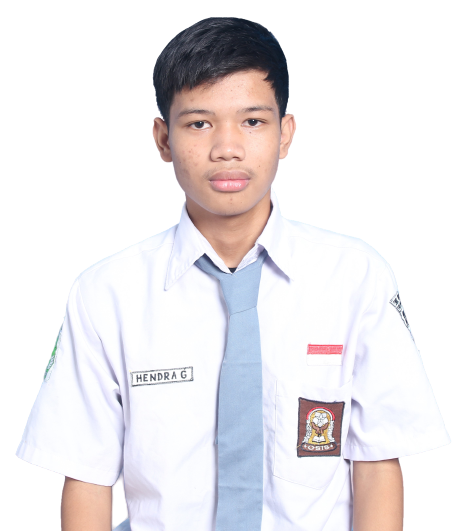
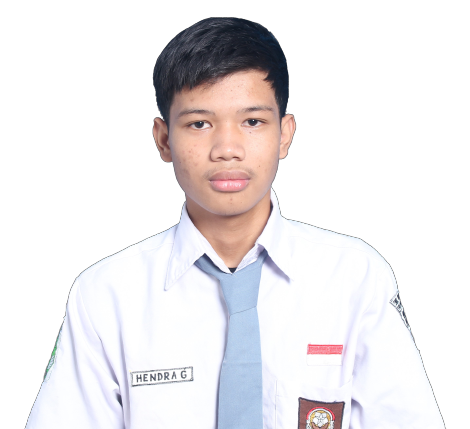
crop

diff --git a/src/js/script.js b/src/js/script.js
@@ -12,7 +12,7 @@ function initPixi() {
   app = new pixi.Application({
     backgroundAlpha: 0,
     width: "470",
-    height: "531"
+    height: "440"
   });
 
   var image = pixi.Sprite.from("assets/pp.png");
